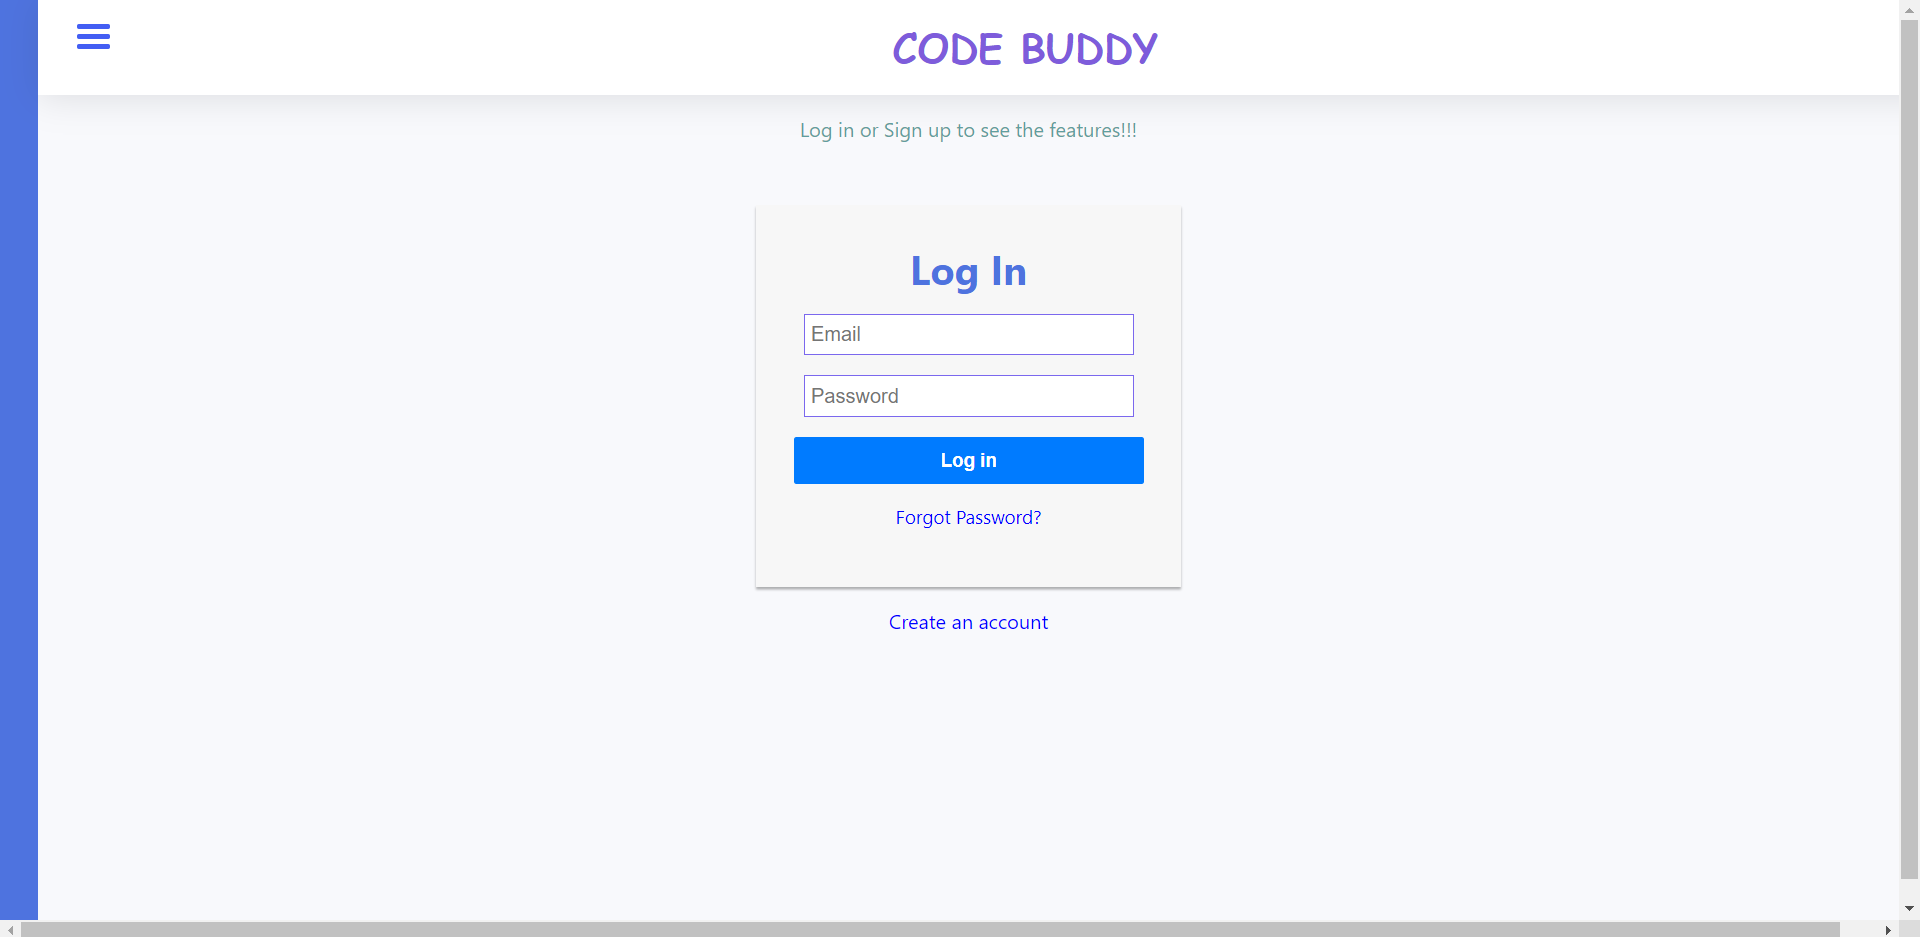
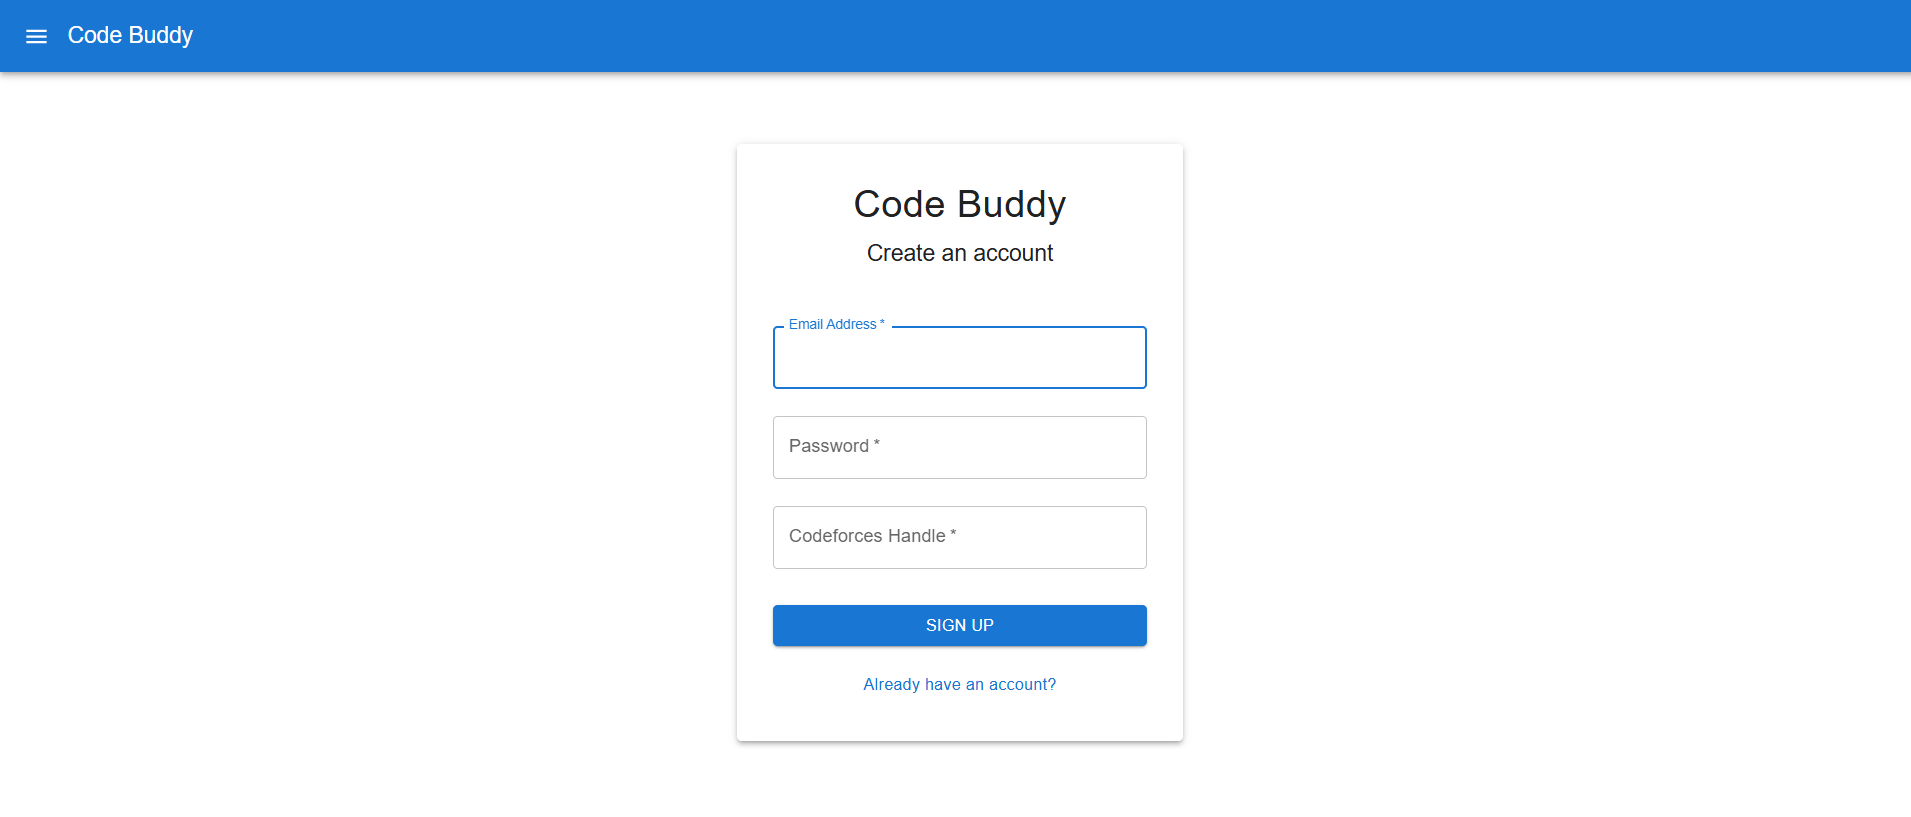
[DEV] updated UI added

diff --git a/README.md b/README.md
@@ -18,26 +18,14 @@ You can visit the site [here](https://code-buddy-cfh.netlify.app/). If you do no
 
 ## Glance of the app
 
-![Login](/screen_shots/logIn.png)
+![CF_Profile](/screen_shots/cf_profile.png)
 
-![Sign up](/screen_shots/signUp.png)
+![CF_Rating](/screen_shots/cf_rating.png)
 
-![up_contests](/screen_shots/upcoming_contests.png)
+![Problems](/screen_shots/problems.png)
 
-![add_prob_1](/screen_shots/add_new_problems.png)
+![Search](/screen_shots/search.png)
 
-![add_prob_2](/screen_shots/add_new_problems_2.png)
+![DeleteProblem](/screen_shots/delete_problem.png)
 
-![problem_category](/screen_shots/problem_category.png)
-
-![Profile_2](/screen_shots/compare_2.png)
-
-![Compare_3](/screen_shots/compare_3.png)
-
-![Profile_1](/screen_shots/profile_1.png)
-
-![Profile_2](/screen_shots/profile_2.png)
-
-![Profile_3](/screen_shots/profile_3.png)
-
-![Profile_4](/screen_shots/profile_4.png)
+![Signup](/screen_shots/login.png)
